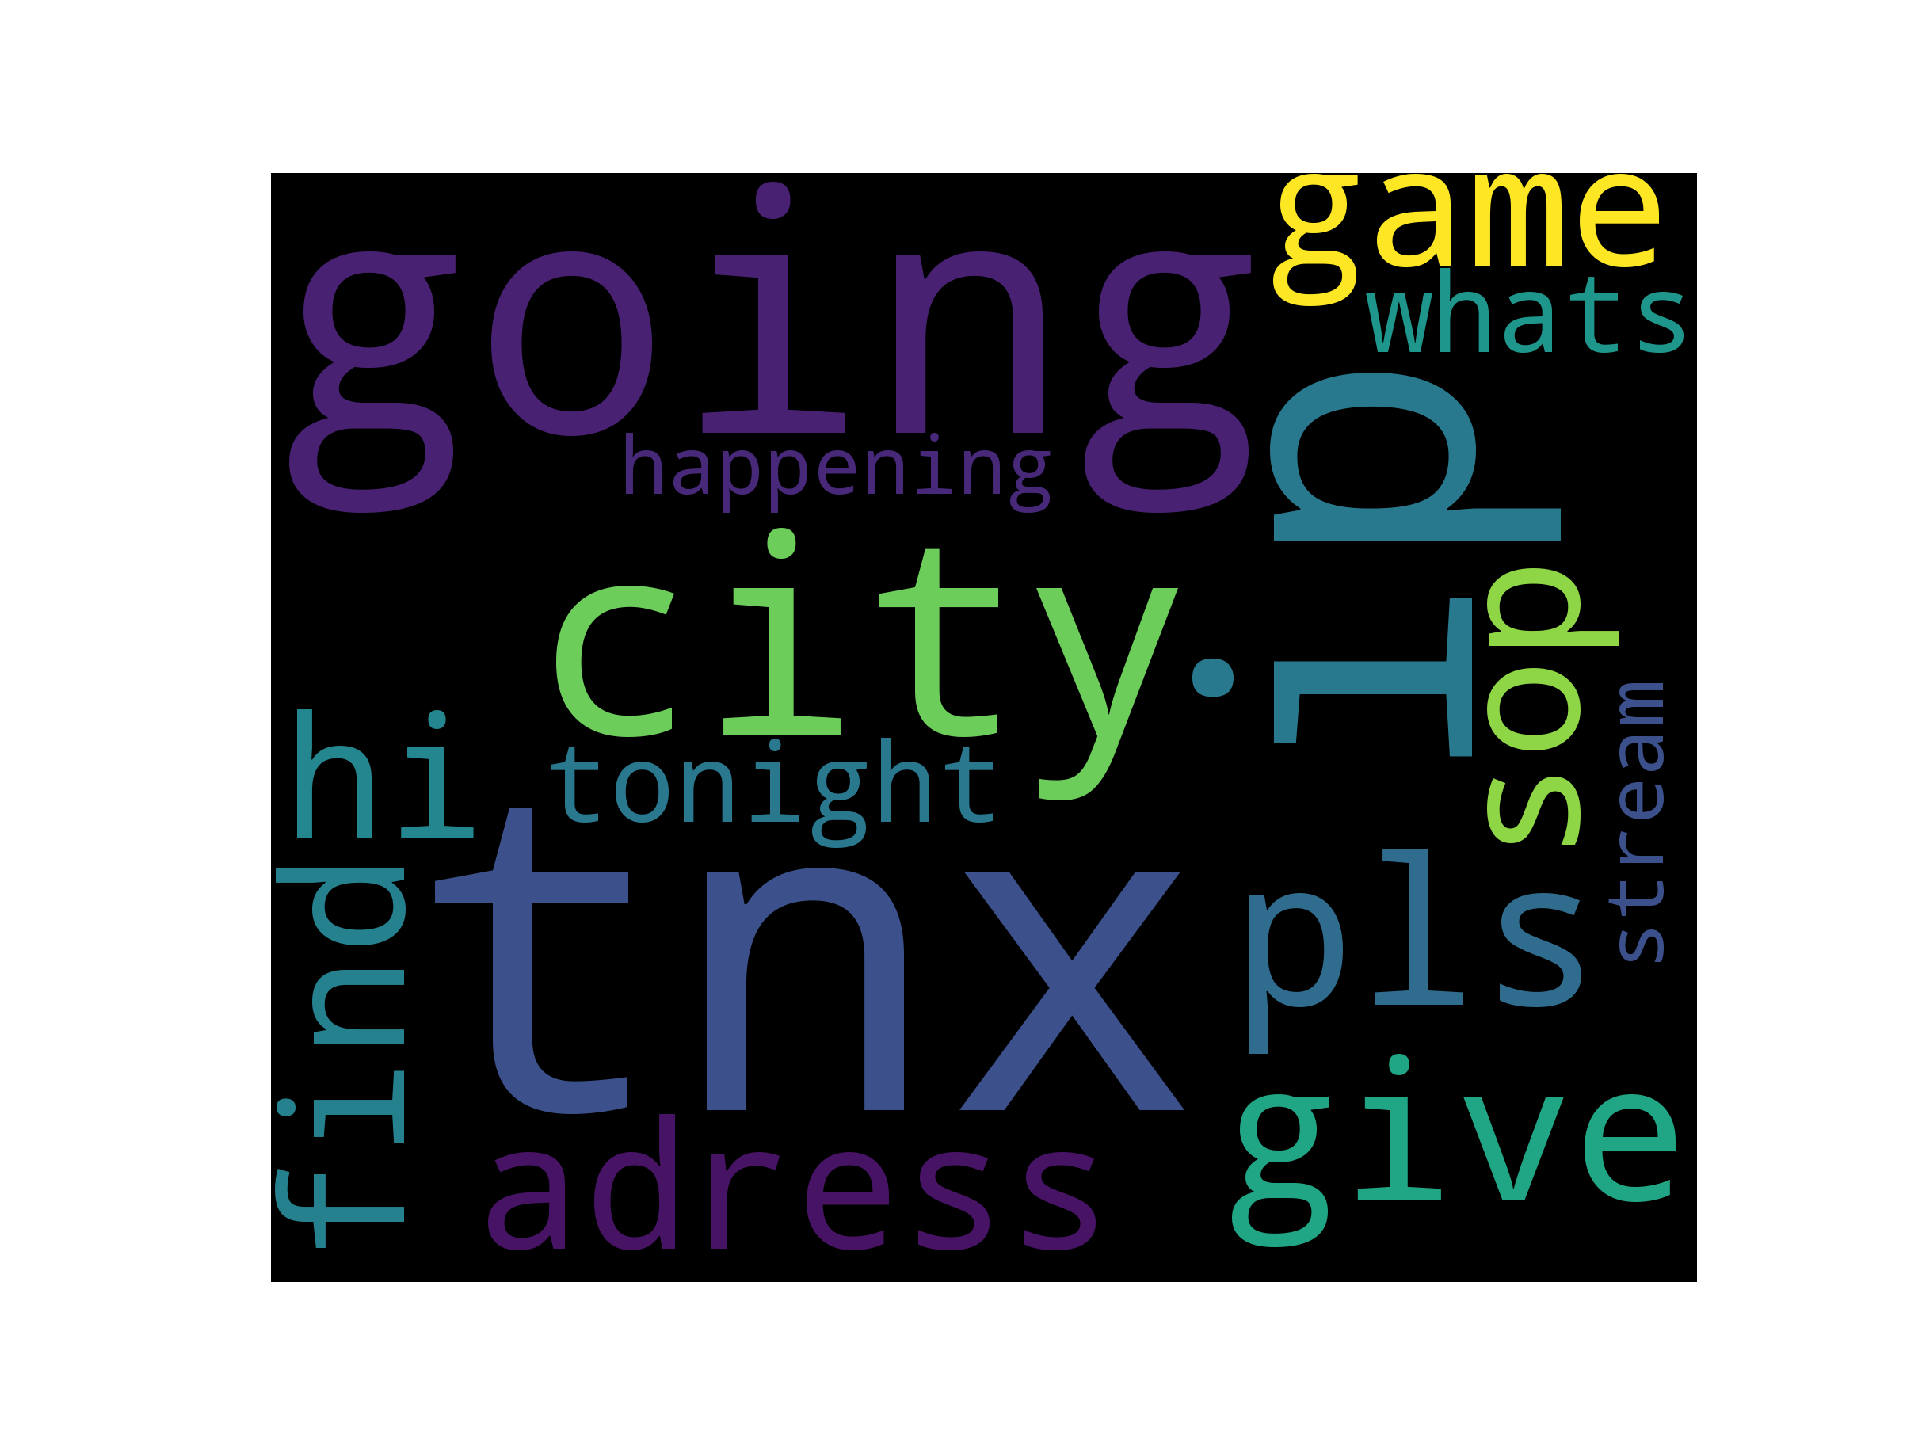
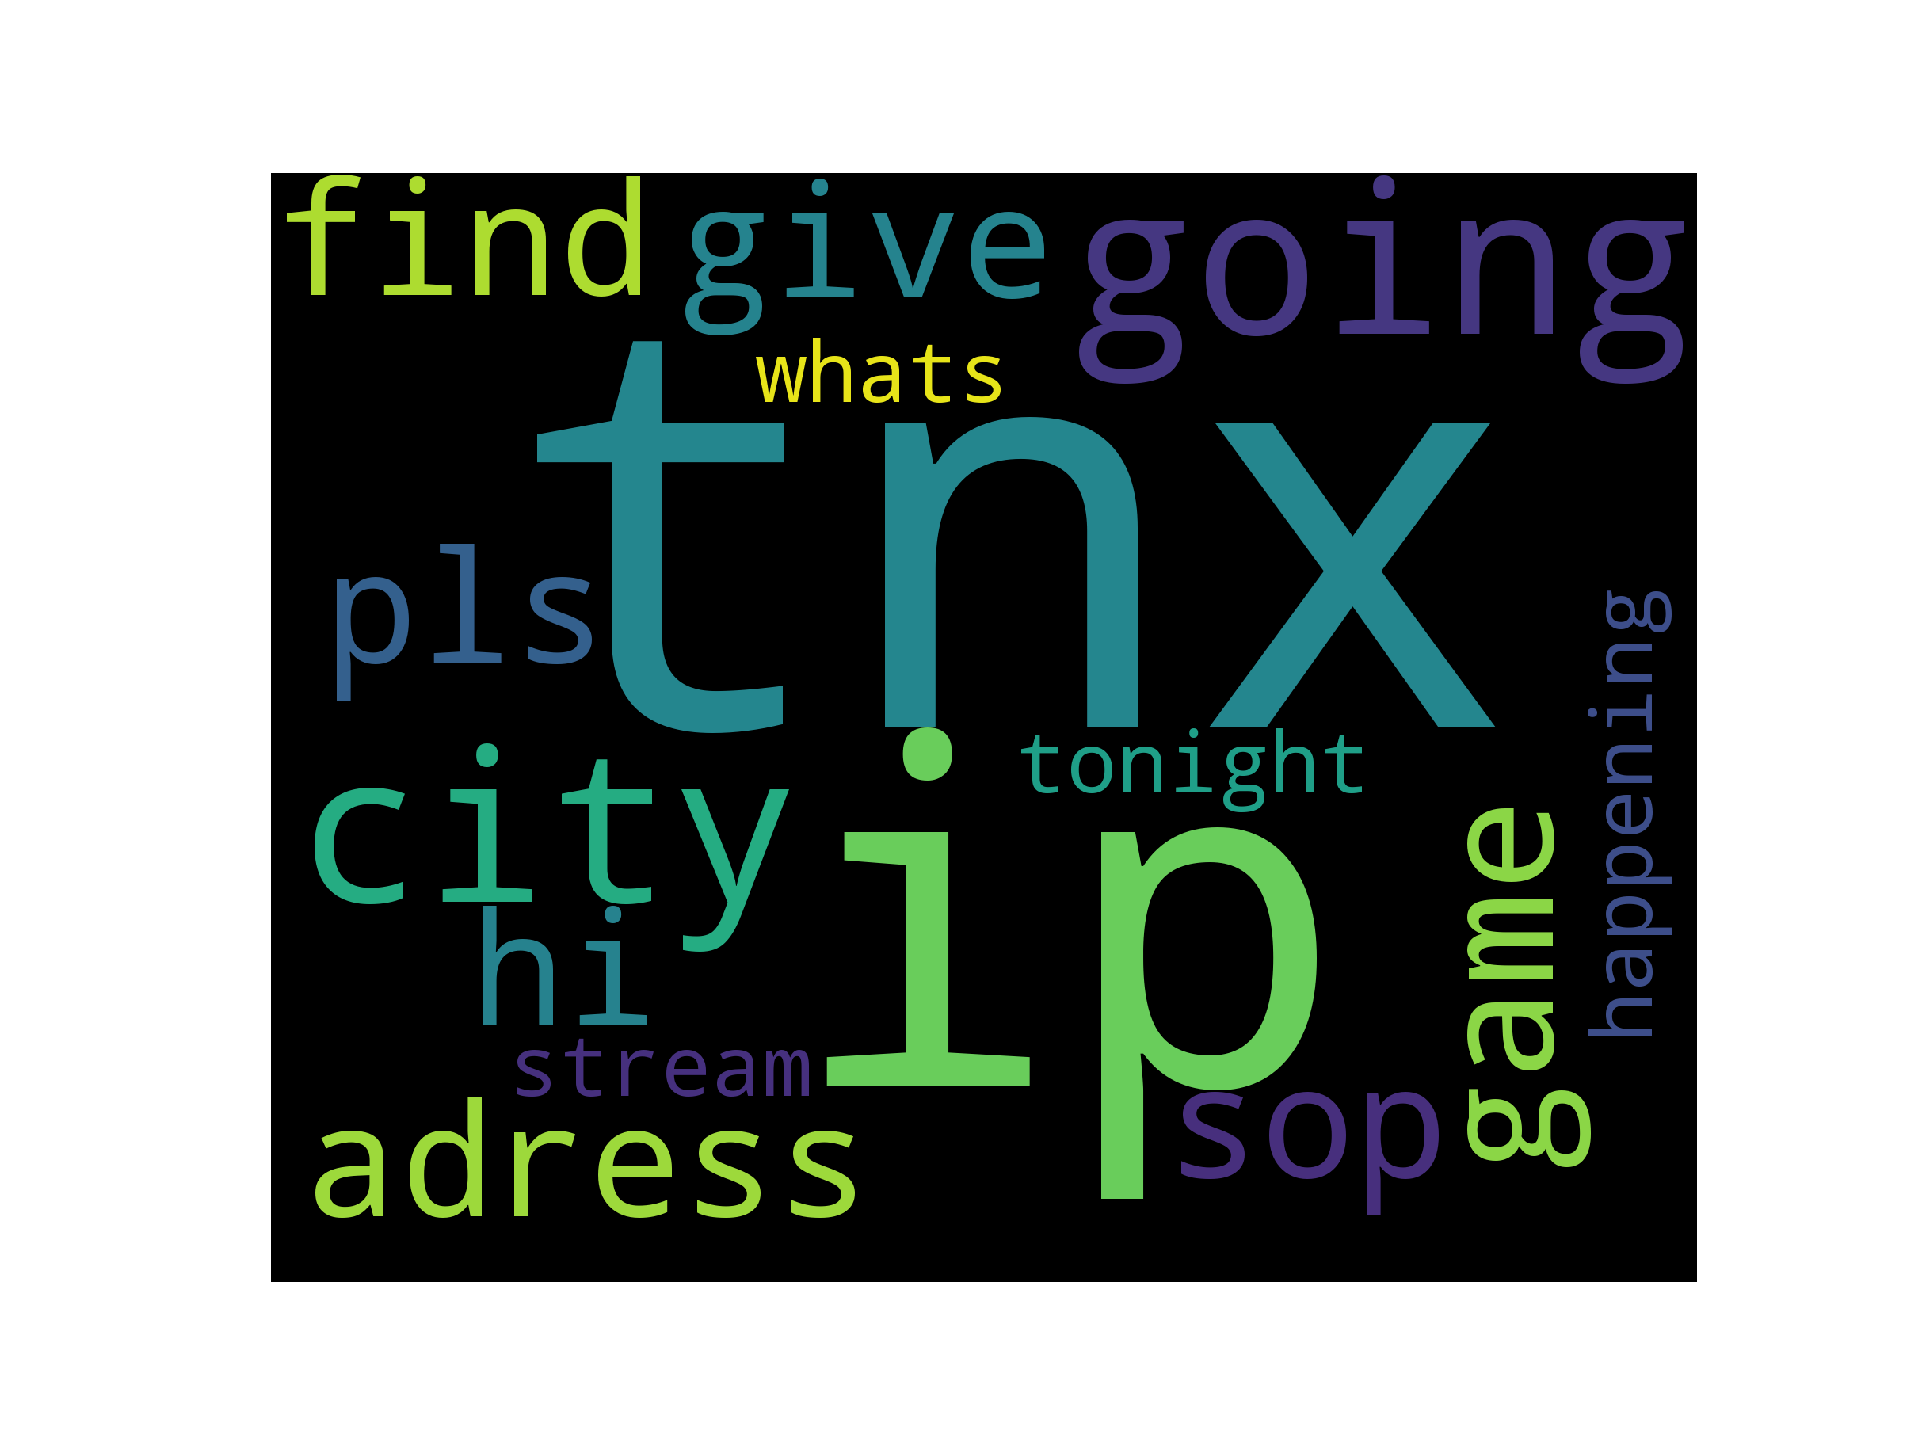
update

Changed region(s): [[0.125, 0.0938, 0.875, 0.875]]

diff --git a/tw_wordcloud.py b/tw_wordcloud.py
@@ -21,6 +21,12 @@ import oauth_info as auth # our local file with the OAuth infos
 import matplotlib.pyplot as plt
 from wordcloud import WordCloud, STOPWORDS
 
+import os
+try:
+    os.remove('out.csv')
+except Exception as e:
+    print(e)
+
 class TimelineMiner(object):
     def __init__(self, access_token, access_secret, consumer_key, consumer_secret, user_name):
         self.access_token = access_token

diff --git a/oauth_info.py b/oauth_info.py
@@ -1,4 +1,4 @@
-USER_NAME = 'jeremyphoward'
+USER_NAME = 'sebastiankurz'
 ACCESS_TOKEN = "429332942-XNoIEqAv03SOdS65tLPPaGld3LSJJ94qNh8SIgM4"
 ACCESS_TOKEN_SECRET = "dZuVkQzz0s0HEQL1PWqOvifBjl2I7j9Jhq9ioiachypcy"
 CONSUMER_KEY = "CzyZhmfUtaQTULpkdT3iIUC8C"
